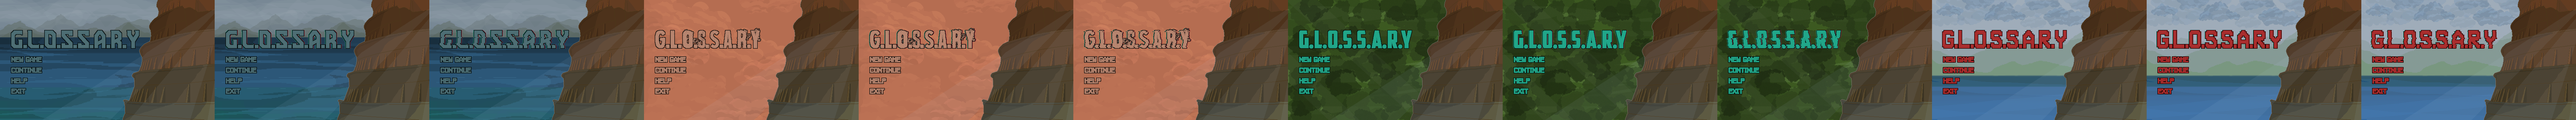
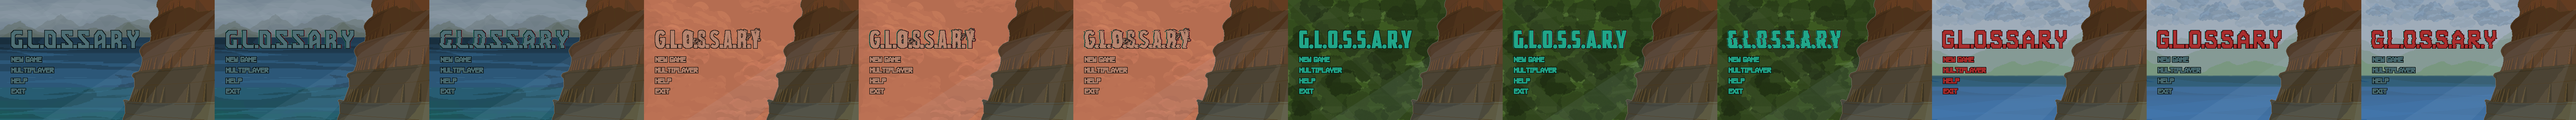
changes of homescreen

diff --git a/code/src/game/scenes/AchievementsUI.ts b/code/src/game/scenes/AchievementsUI.ts
@@ -1,15 +1,15 @@
 import * as Phaser from 'phaser';
-import { PlayerData } from '../data/PlayerData';
+import { UserData } from '../data/UserData';
 
 const CUBE_SIZE = 50.5;
 
 const CUBE_POSITIONS = [
-    { x: 141, y: 126.5 },
-    { x: 110, y: 190.5 },
-    { x: 175, y: 190.5 },
-    { x: 77, y: 254.5 },
-    { x: 141, y: 254.5 },
-    { x: 205, y: 254.5 }
+    { x: 246, y: 107.5 },
+    { x: 214, y: 171.5 },
+    { x: 278, y: 171.5 },
+    { x: 182, y: 235.5 },
+    { x: 246, y: 235.5 },
+    { x: 310, y: 235.5 }
 ];
 
 const ACHIEVEMENT_TOOLTIPS = [
@@ -27,7 +27,13 @@ export class AchievementsUI extends Phaser.Scene {
     private baseY = 0;
     private imgScale = 2;
     private parentScene!: Phaser.Scene;
+
     private overlays: Phaser.GameObjects.Rectangle[] = [];
+    private overlayToIndex: number[] = [];
+
+    tooltipBg!: Phaser.GameObjects.Rectangle;
+    tooltipText!: Phaser.GameObjects.Text;
+    tooltipVisible: boolean = false;
 
     constructor() {
         super('AchievementsUI');
@@ -39,21 +45,24 @@ export class AchievementsUI extends Phaser.Scene {
         this.baseY = data.y;
         this.imgScale = data.scale || 2;
 
-        const playerData = PlayerData.getInstance();
+        const playerData = UserData.getInstance();
 
-        // Tooltip setup (hidden by default)
         this.tooltipBg = this.add.rectangle(0, 0, 400, 80, 0x000000, 0.8)
             .setOrigin(0, 0)
             .setVisible(false)
-            .setDepth(100);
+            .setDepth(1000);
+
         this.tooltipText = this.add.text(0, 0, '', {
             fontSize: '22px',
             color: '#847E87',
             fontFamily: 'font',
             wordWrap: { width: 380 },
-            lineSpacing: 6,
-            align: 'left'
-        }).setOrigin(0, 0).setVisible(false).setDepth(101);
+            lineSpacing: 6
+        })
+        .setResolution(10)
+        .setOrigin(0, 0)
+        .setVisible(false)
+        .setDepth(1001);
 
         CUBE_POSITIONS.forEach((pos, i) => {
             const achievement = playerData.achievements[i];
@@ -61,67 +70,77 @@ export class AchievementsUI extends Phaser.Scene {
 
             if (locked) {
                 const size = Math.round(CUBE_SIZE * this.imgScale);
-                const halfSize = size / 2;
-                const screenX = Math.round(this.baseX + pos.x * this.imgScale - halfSize);
-                const screenY = Math.round(this.baseY + pos.y * this.imgScale - halfSize);
 
-                const overlay = this.add.rectangle(screenX, screenY, size, size, 0x000000, 0.75)
+                const x = Math.round(this.baseX + pos.x * this.imgScale);
+                const y = Math.round(this.baseY + pos.y * this.imgScale);
+
+                const overlay = this.add.rectangle(x, y, size, size, 0x000000, 0.75)
                     .setOrigin(0.5)
-                    .setDepth(10)
-                    .setInteractive({ useHandCursor: true })
-                    .on('pointerover', () => this.showTooltip(i, screenY))
-                    .on('pointerout', () => this.hideTooltip());
+                    .setDepth(100)
+                    .setInteractive({ useHandCursor: true });
+
+                overlay.on('pointerover', () => {
+                    const scrollY = this.parentScene.cameras.main.scrollY;
+
+                    const worldX = x;
+                    const worldY = y - scrollY;
+
+                    this.showTooltip(i, worldX, worldY);
+                });
+
+                overlay.on('pointerout', () => {
+                    this.hideTooltip();
+                });
 
                 this.overlays.push(overlay);
+                this.overlayToIndex.push(i);
             }
         });
     }
 
-    private showTooltip(index: number, y: number) {
-        if (!this.tooltipBg || !this.tooltipText) return;
+    private showTooltip(index: number, x: number, y: number) {
         const text = ACHIEVEMENT_TOOLTIPS[index];
+
         this.tooltipText.setText(text);
-        this.tooltipText.setPosition(40, y - 20); // 40px from left, aligned with cube
-        this.tooltipText.setVisible(true);
-        // Adjust background size to text
+
         const bounds = this.tooltipText.getBounds();
-        this.tooltipBg.setPosition(bounds.x - 10, bounds.y - 10);
-        this.tooltipBg.setSize(bounds.width + 20, bounds.height + 20);
+
+        const tooltipWidth = bounds.width + 20;
+        const tooltipHeight = bounds.height + 20;
+
+        const offsetX = 20;
+
+        const bgX = x - tooltipWidth - offsetX;
+        const bgY = y - tooltipHeight / 2;
+
+        this.tooltipBg.setPosition(bgX, bgY);
+        this.tooltipBg.setSize(tooltipWidth, tooltipHeight);
         this.tooltipBg.setVisible(true);
+
+        this.tooltipText.setPosition(bgX + 10, bgY + 10);
+        this.tooltipText.setVisible(true);
+
         this.tooltipVisible = true;
     }
 
     private hideTooltip() {
-        if (!this.tooltipBg || !this.tooltipText) return;
         this.tooltipBg.setVisible(false);
         this.tooltipText.setVisible(false);
         this.tooltipVisible = false;
     }
 
     update() {
-        const scrollY = (this.parentScene.cameras.main as any).scrollY;
+        const scrollY = this.parentScene.cameras.main.scrollY;
 
         this.overlays.forEach((overlay, i) => {
-            const pos = CUBE_POSITIONS[this.getLockedIndex(i)];
+            const index = this.overlayToIndex[i];
+            const pos = CUBE_POSITIONS[index];
             const size = Math.round(CUBE_SIZE * this.imgScale);
-            const halfSize = size / 2;
-            overlay.setPosition(
-                Math.round(this.baseX + pos.x * this.imgScale - halfSize),
-                Math.round(this.baseY + pos.y * this.imgScale - halfSize - scrollY)
-            );
-        });
-    }
 
-    private getLockedIndex(overlayIndex: number): number {
-        const playerData = PlayerData.getInstance();
-        let lockedCount = 0;
-        for (let i = 0; i < CUBE_POSITIONS.length; i++) {
-            const achievement = playerData.achievements[i];
-            if (!achievement || !achievement.unlocked) {
-                if (lockedCount === overlayIndex) return i;
-                lockedCount++;
-            }
-        }
-        return 0;
+            const x = Math.round(this.baseX + pos.x * this.imgScale);
+            const y = Math.round(this.baseY + pos.y * this.imgScale - scrollY);
+
+            overlay.setPosition(x, y);
+        });
     }
 }

diff --git a/code/src/game/scenes/MainMenu.ts b/code/src/game/scenes/MainMenu.ts
@@ -14,11 +14,12 @@ const CANVAS_SCALE = 2;
 
 const BUTTONS = [
         { label: 'NEW SAVE', srcX: 79, srcY: 178, srcW: 90, srcH: 22 },
-        { label: 'CONTINUE', srcX: 79, srcY: 210, srcW: 90, srcH: 22 },
-        { label: 'HELP', srcX: 57, srcY: 242, srcW: 48, srcH: 22 },
+        { label: 'MULTIPLAYER', srcX: 95, srcY: 210, srcW: 126, srcH: 22 },
+        { label: 'HELP', srcX: 55, srcY: 242, srcW: 48, srcH: 22 },
         { label: 'EXIT', srcX: 55, srcY: 274, srcW: 44, srcH: 22 },
 ] as const;
 
+const BUTTON_LEFT_X = 34;
 const SEL_SRC_W = 12;
 const SEL_GAP = 0;
 
@@ -67,9 +68,10 @@ export class MainMenu extends Phaser.Scene {
             .setFlipX(true)
             .play('sel_anim');
 
+        const buttonLeft = BUTTON_LEFT_X * CANVAS_SCALE;
         for (let i = 0; i < BUTTONS.length; i++) {
             const btn = BUTTONS[i];
-            const cx = btn.srcX * CANVAS_SCALE;
+            const cx = buttonLeft + (btn.srcW * CANVAS_SCALE) / 2;
             const cy = btn.srcY * CANVAS_SCALE;
             const bw = btn.srcW * CANVAS_SCALE;
             const bh = btn.srcH * CANVAS_SCALE;
@@ -111,7 +113,8 @@ export class MainMenu extends Phaser.Scene {
 
     private positionSelector(i: number) {
         const btn = BUTTONS[i];
-        const cx = btn.srcX * CANVAS_SCALE;
+        const buttonLeft = BUTTON_LEFT_X * CANVAS_SCALE;
+        const cx = buttonLeft + (btn.srcW * CANVAS_SCALE) / 2;
         const cy = btn.srcY * CANVAS_SCALE;
         const bw = btn.srcW * CANVAS_SCALE;
         const selDisplayW = SEL_SRC_W * CANVAS_SCALE;

diff --git a/code/src/game/data/UserData.ts b/code/src/game/data/UserData.ts
@@ -3,14 +3,14 @@ export interface AchievementData {
     unlocked: boolean;
 }
 
-export class PlayerData {
+export class UserData {
     achievements: AchievementData[] = [
         { id: 'completionist', unlocked: false },
-        { id: 'alchemist', unlocked: false },
+        { id: 'greedy', unlocked: false },
         { id: 'ritualist', unlocked: false },
         { id: 'cat_whisperer', unlocked: false },
         { id: 'champion', unlocked: false },
-        { id: 'necromancer', unlocked: false }
+        { id: 'bum', unlocked: false }
     ];
 
     itemsDiscovered: string[] = [];
@@ -23,13 +23,13 @@ export class PlayerData {
     catModeFound: boolean = false;
     completedGame: boolean = false;
 
-    private static instance: PlayerData;
+    private static instance: UserData;
 
-    static getInstance(): PlayerData {
-        if (!PlayerData.instance) {
-            PlayerData.instance = new PlayerData();
+    static getInstance(): UserData {
+        if (!UserData.instance) {
+            UserData.instance = new UserData();
         }
-        return PlayerData.instance;
+        return UserData.instance;
     }
 
     unlockAchievement(id: string): void {

diff --git a/code/src/definir-protocolo.md b/code/src/definir-protocolo.md
@@ -1,0 +1,9 @@
+### Multiplayer
+
+- There will be rooms (Player can be allowed to play alone) (global/friends)
+- There will be login + friends system
+- 1-3 Players
+- Each Player chooses an Covenant
+- Items/Runes/Finds are shared
+- Players take turns attacking
+- 1 Player = 1 Enemy
